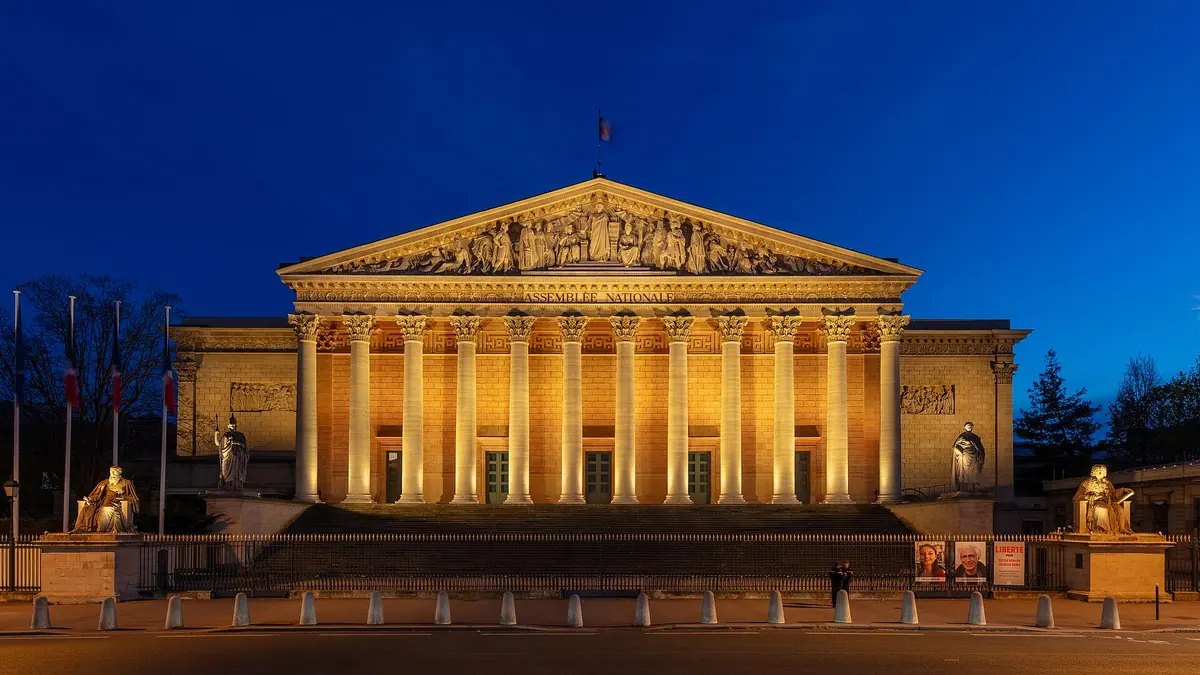
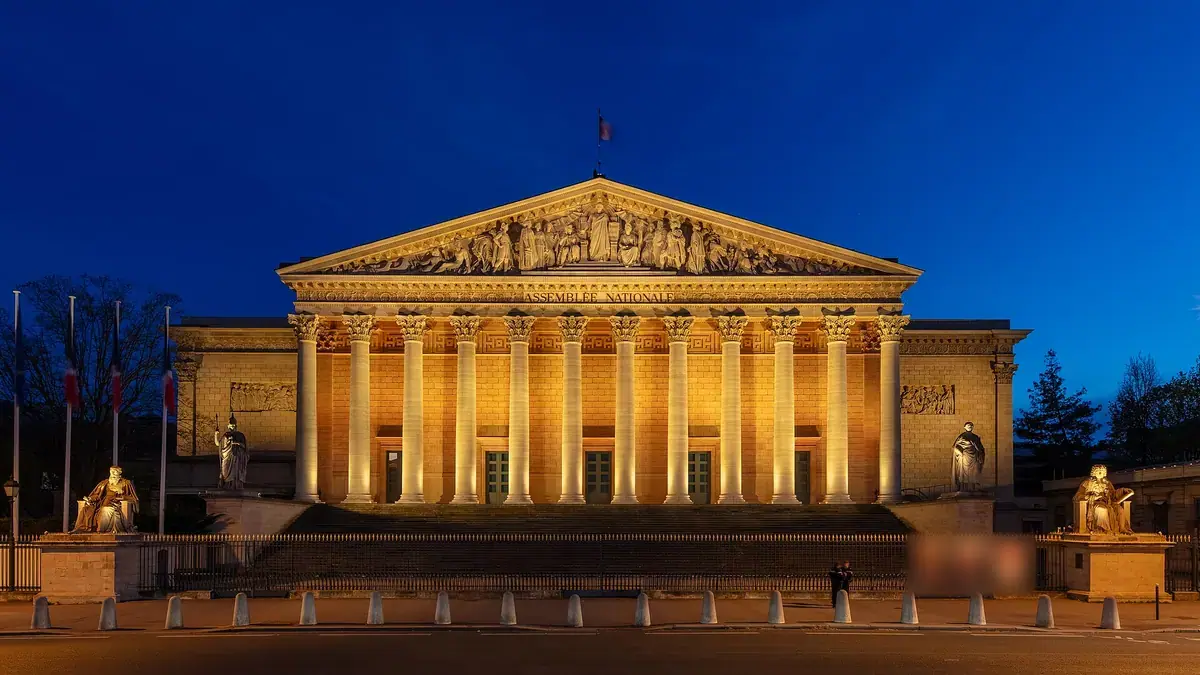
Loi Le Meur : affiches portant des visages floutées sur la photo de couverture
Claude-Session: https://claude.ai/code/session_0176WrKi3WL3a5jYP749myUz

Changed region(s): [[0.74, 0.7778, 0.8633, 0.9022]]

diff --git a/robot/journal.md b/robot/journal.md
@@ -9,3 +9,4 @@ Les lignes qui commencent par `ALERTE` demandent une action de Nassim.
 ALERTE 2026-11-21 · diagnostic · aucune publication depuis le 16/11 : la tâche planifiée « rédaction » a été coupée le 18/11 par le serveur, parce que le modèle Claude Fable 5.2 demande des crédits d'usage sur le compte de Nassim ; la tâche « veille » a échoué le 15/11 (limite d'usage atteinte). La chaîne GitHub (contrôle quotidien, publication, IndexNow) fonctionne : 50 pages contrôlées sans erreur le 21/11. Décision attendue de Nassim : crédits d'usage pour Fable 5.2, ou passage des deux tâches sur Claude Opus 5.5
 2026-11-21 · entretien (session avec Nassim) · /blog/airbnb-ou-location-longue-duree : partie « Loyers encadrés » mise à jour (prolongation adoptée définitivement le 19/11/2026, sources Assemblée nationale et Sénat ; loi pas encore publiée au JO) · /tarifs renforcée pour « tarif / prix conciergerie Airbnb » (ce qui est compris, ce qui est en plus, six points pour comparer, exemple de calcul fictif) · volumes de recherche réels relevés (robot/donnees/mots-cles.json) et file des sujets retriée par priorité puis volume ; 5 sujets ajoutés (loi Le Meur en tête, serrure connectée, quartiers où investir, meublé de tourisme, LMNP) ; 2 sujets écartés pour éviter la concurrence avec /tarifs et /conciergerie-airbnb-yvelines · seuil d'alerte « jours sans article » ramené de 6 à 4
 2026-11-21 · rédaction · publié · /blog/loi-le-meur-ce-qui-change · 2 567 mots (trois tableaux et un graphique compris), 11 sources (11 officielles), relecture contradictoire par un agent séparé (15 remarques, toutes traitées) · lien entrant ajouté dans /blog/demarches-mettre-logement-airbnb · à traiter dimanche (veille) : Légifrance affiche l'article L324-1-1 du Code du tourisme « en vigueur depuis le 20 mai 2026 » (déclaration simple abrogée, plafond de 120 jours applicable à toute résidence principale, amendes 10 000 / 15 000 / 20 000 €), alors que Service-Public.fr décrit encore la procédure en mairie et les anciens montants et que le téléservice national n'est pas ouvert ; /blog/demarches-mettre-logement-airbnb (tableau « 120 dans les communes à enregistrement », amende de 450 €) et /blog/numero-enregistrement-meuble-de-tourisme-2026 sont à reprendre sur ce point
+2026-11-21 · entretien (session avec Nassim) · /blog/loi-le-meur-ce-qui-change : photo de couverture contrôlée ; deux affiches portant des visages de personnes réelles, sur la grille du Palais Bourbon, ont été floutées (règle « aucune personne reconnaissable ») ; crédit complété

diff --git a/content/blog/loi-le-meur-ce-qui-change.md b/content/blog/loi-le-meur-ce-qui-change.md
@@ -104,7 +104,7 @@ faq:
       avec l'avis d'imposition comme preuve, et la commune peut abaisser son
       plafond de location de 120 à 90 jours par an.
 image: /images/blog/loi-le-meur-ce-qui-change-1200.webp
-image_credit: 'Diego Delso, CC BY-SA 4.0, via Wikimedia Commons'
+image_credit: 'Diego Delso, CC BY-SA 4.0, via Wikimedia Commons (affiches floutées)'
 ---
 La loi Le Meur, du nom de la députée Annaïg Le Meur, l'une de ses deux rapporteurs à l'Assemblée nationale, a changé les règles de la location courte durée. Le problème, c'est que ses mesures entrent en vigueur par étapes : certaines s'appliquent depuis fin 2024, d'autres sont en vigueur sur le papier mais reposent sur un téléservice national pas encore ouvert, d'autres arriveront en 2034. Voici, mesure par mesure et vérifié à la source, ce qui change pour un propriétaire en Île-de-France et ce qu'il doit faire.
 
